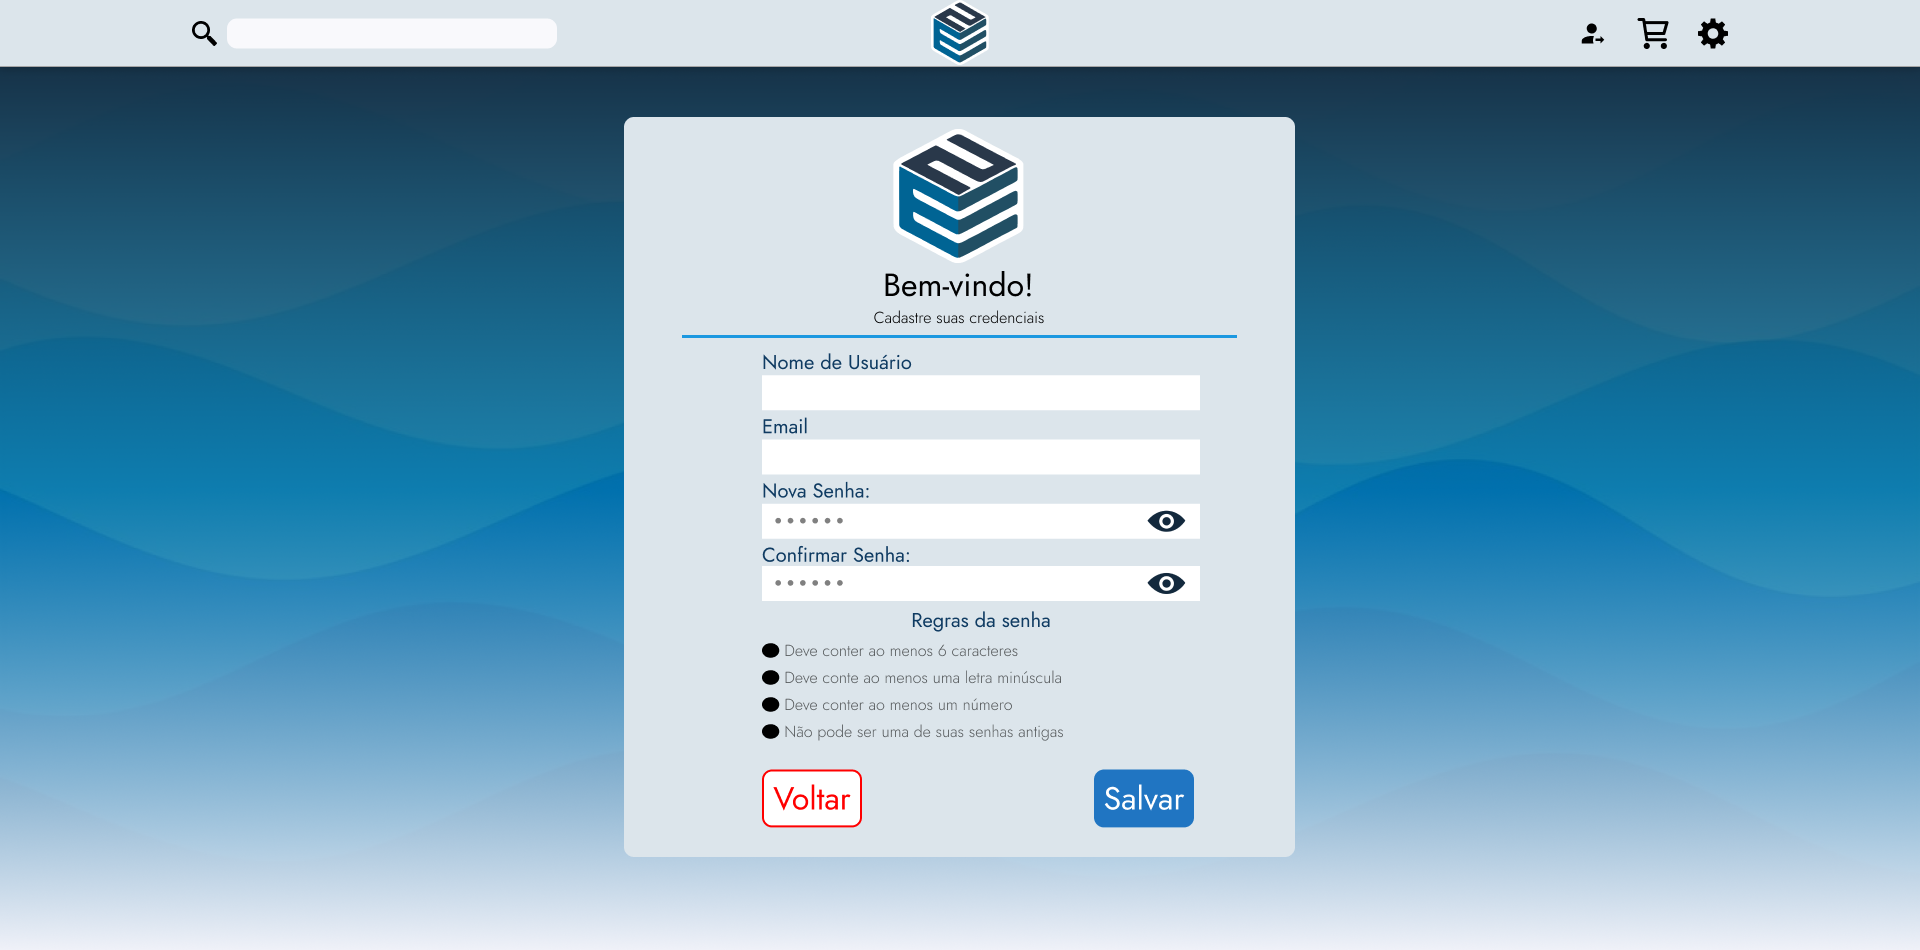
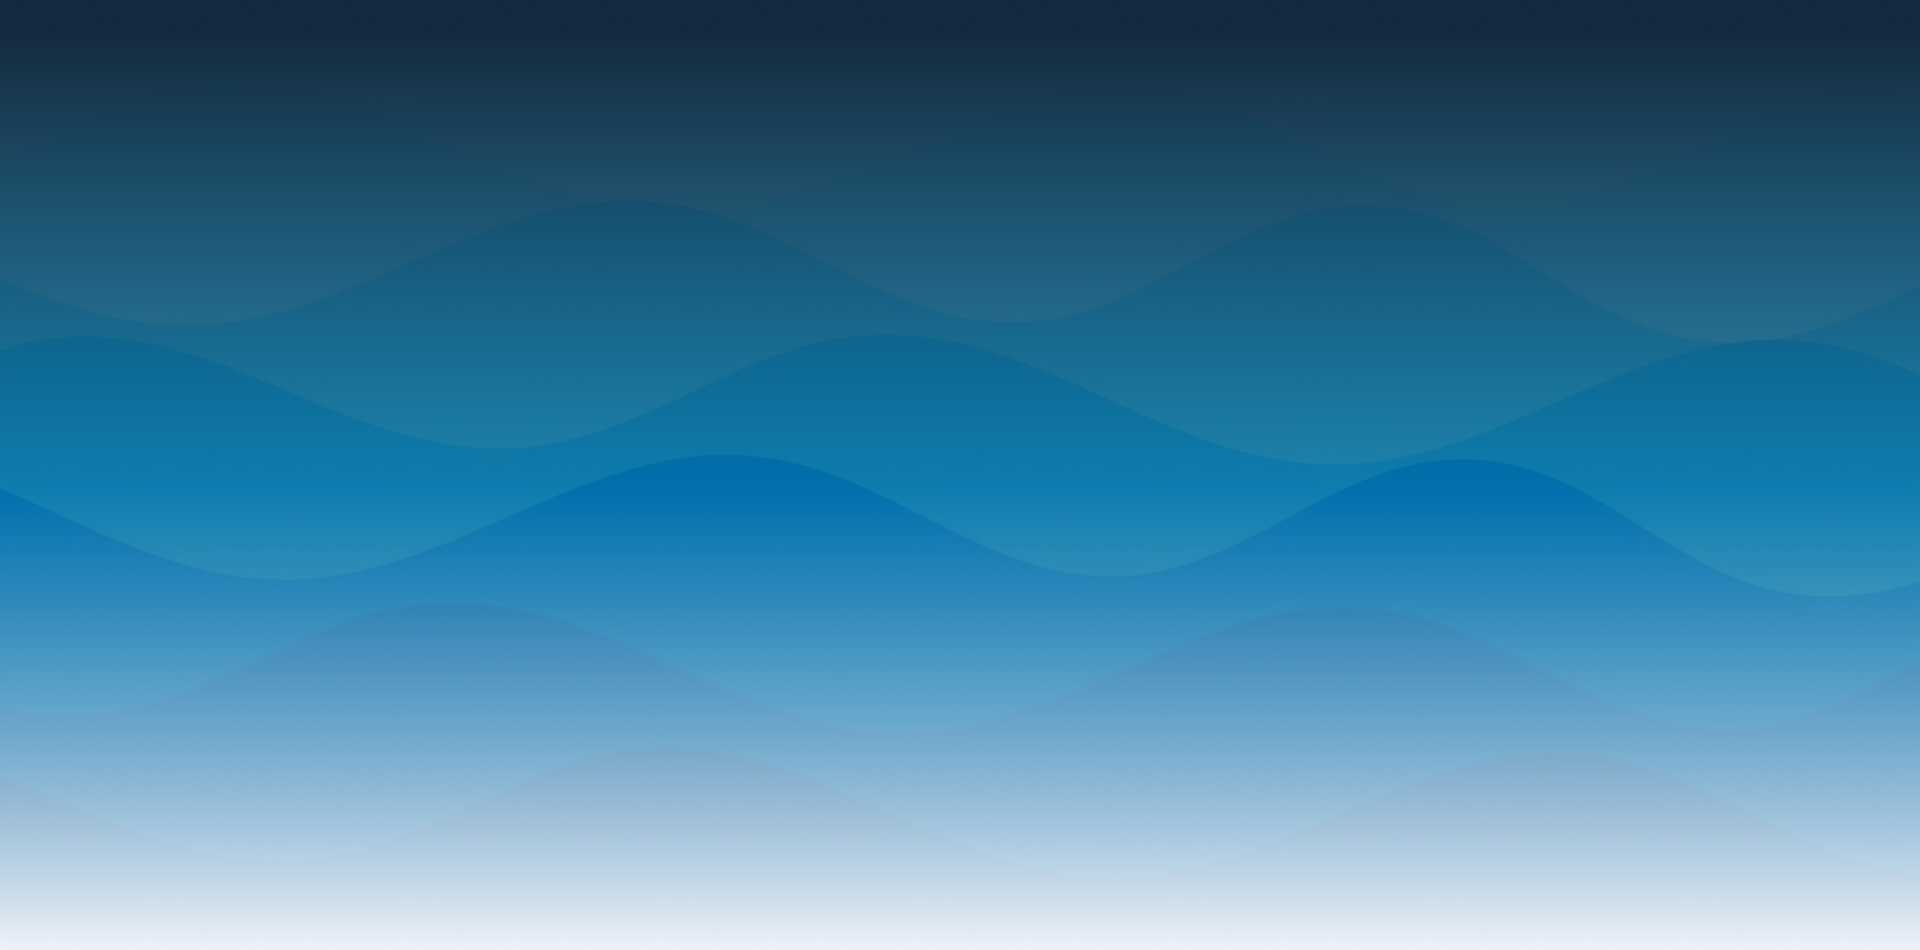
finalizando a tela de cadastro

diff --git a/css/cadastro.css b/css/cadastro.css
@@ -1,0 +1,135 @@
+* {
+  margin: 0;
+  padding: 0;
+}
+
+html {
+  height: 100%;
+  width: 100%;
+}
+
+body {
+  font-family: 'Jost';
+  display: flex;
+  align-items: center;
+  justify-content: center;
+  flex-direction: column;
+  height: 100%;
+  width: 100%;
+  background-image: url('../image/cadastro_fundo.png');
+  background-repeat: no-repeat;
+}
+
+.navbar {
+  background-color: #F9F9FC;
+  width: 100%;
+  height: 67px;
+}
+
+main {
+  display: flex;
+  align-items: center;
+  justify-content: center;
+  width: 100%;
+  height: 100%;
+}
+
+.quadrado {
+  width: 671px;
+  height: 740px;
+  border-radius: 10px;
+  background: #DCE5EB;
+  display: inline-flex;
+  flex-direction: column;
+  justify-content: center;
+  align-items: center;
+}
+
+.bem_vindo{
+  display: flex;
+  align-items: center;
+  justify-content: center;
+  flex-direction: column;
+}
+
+.cadastro_bem_vindo {
+  font-size: 32px;
+  font-style: normal;
+  font-weight: 500;
+}
+
+.divisoria_cadastro {
+  align-items: center;
+  margin-top: 8px;
+}
+
+.formulario_cadastro {
+  margin-top: 8px;
+}
+
+.formulario_cadastro input{
+  width: 418px;
+  height: 15px;
+  padding: 10px;
+  border: none;
+}
+
+.formulario_cadastro label {
+  color: #0F3B62;
+  font-size: 20px;
+  font-style: normal;
+  font-weight: 400;
+}
+
+.regras {
+  margin-top: 10px;
+}
+
+.regras_senha {
+  color: #0F3B62;
+  text-align: center;
+  font-size: 20px;
+  font-style: normal;
+  font-weight: 400;
+}
+
+.lista {
+  text-align: left;
+  color: rgb(0, 0, 0);
+  font-size: 16px;
+  font-style: normal;
+  font-weight: 300;
+}
+
+.botoes {
+  margin-top: 25px;
+  display: grid;
+  grid-template-columns: auto 200px auto;
+}
+
+.voltar {
+  grid-column: 1;
+  color: #F00;
+  text-align: center;
+  font-family: Jost;
+  font-size: 32px;
+  font-style: normal;
+  font-weight: 400;
+  border: red solid 2px;
+  border-radius: 10px;
+  width: 100px;
+  height: 58px;
+}
+
+.salvar {
+  grid-column: 3;
+  background-color: #2075C2;
+  color: #fff;
+  width: 100px;
+  height: 58px;
+  border: none;
+  border-radius: 10px;
+  font-size: 32px;
+  font-style: normal;
+  font-weight: 400;
+}

diff --git a/pages/cadastro.html b/pages/cadastro.html
@@ -4,8 +4,47 @@
   <meta charset="UTF-8">
   <meta name="viewport" content="width=device-width, initial-scale=1.0">
   <title>E ao Quadrado</title>
+  <link rel="stylesheet" href="../css/cadastro.css">
+  <link rel="preconnect" href="https://fonts.googleapis.com"> 
+  <link rel="preconnect" href="https://fonts.gstatic.com" crossorigin> 
+  <link href="https://fonts.googleapis.com/css2?family=Jost:ital,wght@0,100..900;1,100..900&display=swap" rel="stylesheet"> 
 </head>
 <body>
-  
+  <nav class="navbar"></nav>
+  <main>
+    <div class="quadrado">
+      <div class="bem_vindo">
+        <img src="../image/logo.png">
+        <p class="cadastro_bem_vindo">Bem-vindo!</p>
+        <p class="cadastro_text">Cadastre suas credenciais</p>
+        <img src="../image/divisoria_cadastro.png" class="divisoria_cadastro">
+      </div>
+
+      <form class="formulario_cadastro">
+        <label for="nomeDeUsuario">Nome de usuário:</label><br>
+        <input type="text"><br>
+        <label for="email">Email:</label><br>
+        <input type="text"><br>
+        <label for="novaSenha">Nova senha:</label><br>
+        <input type="password"><br>
+        <label for="confirmarSenha">Confirmar senha:</label><br>
+        <input type="password">
+      </form>
+
+      <div class="regras">
+        <h1 class="regras_senha">Regras da senha</p>
+        <ul class="lista">
+          <li>Deve conter ao menos 6 caracteres</li>
+          <li>Deve conte ao menos uma letra minúscula</li>
+          <li>Deve conter ao menos um número</li>
+          <li>Não pode ser uma de suas senhas antigas</li>
+        </ul>
+      </div>
+      <div class="botoes">
+        <button class="voltar">Voltar</button>
+        <button class="salvar">Salvar</button>
+      </div>
+    </div>
+  </main>
 </body>
 </html>
